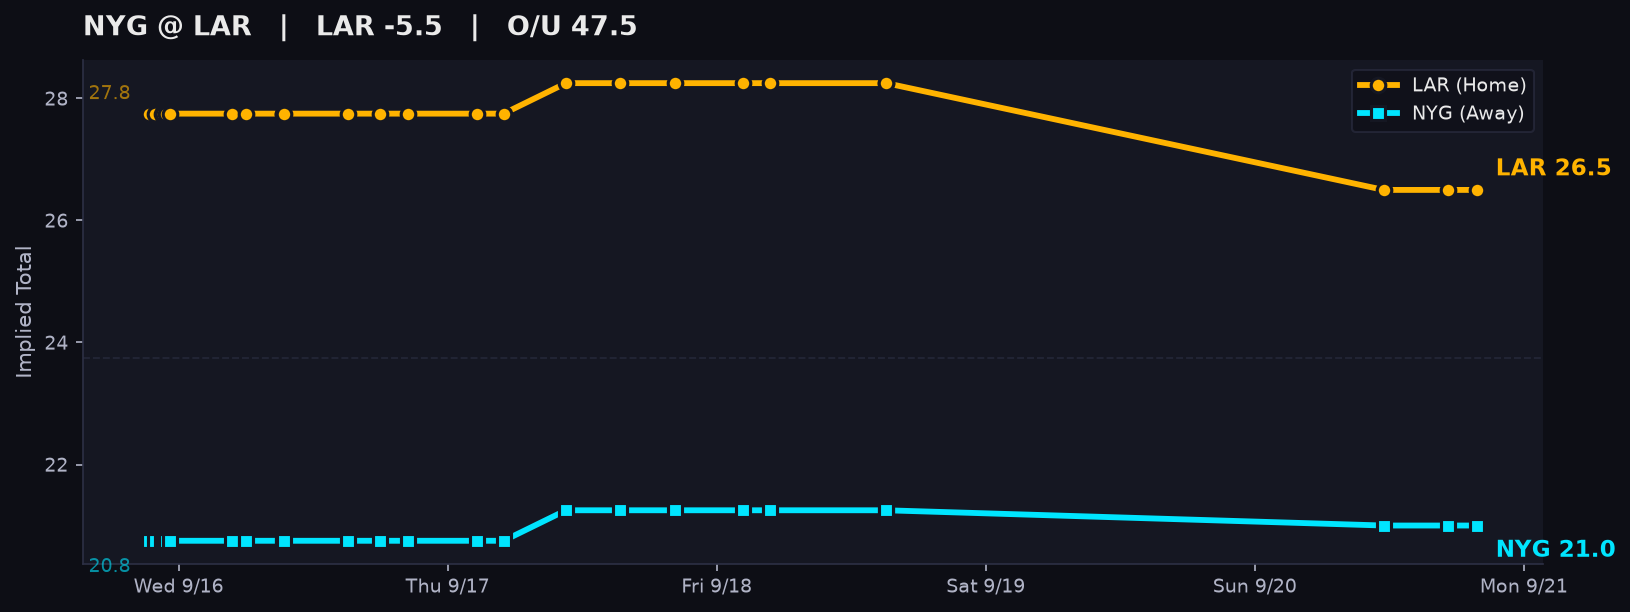
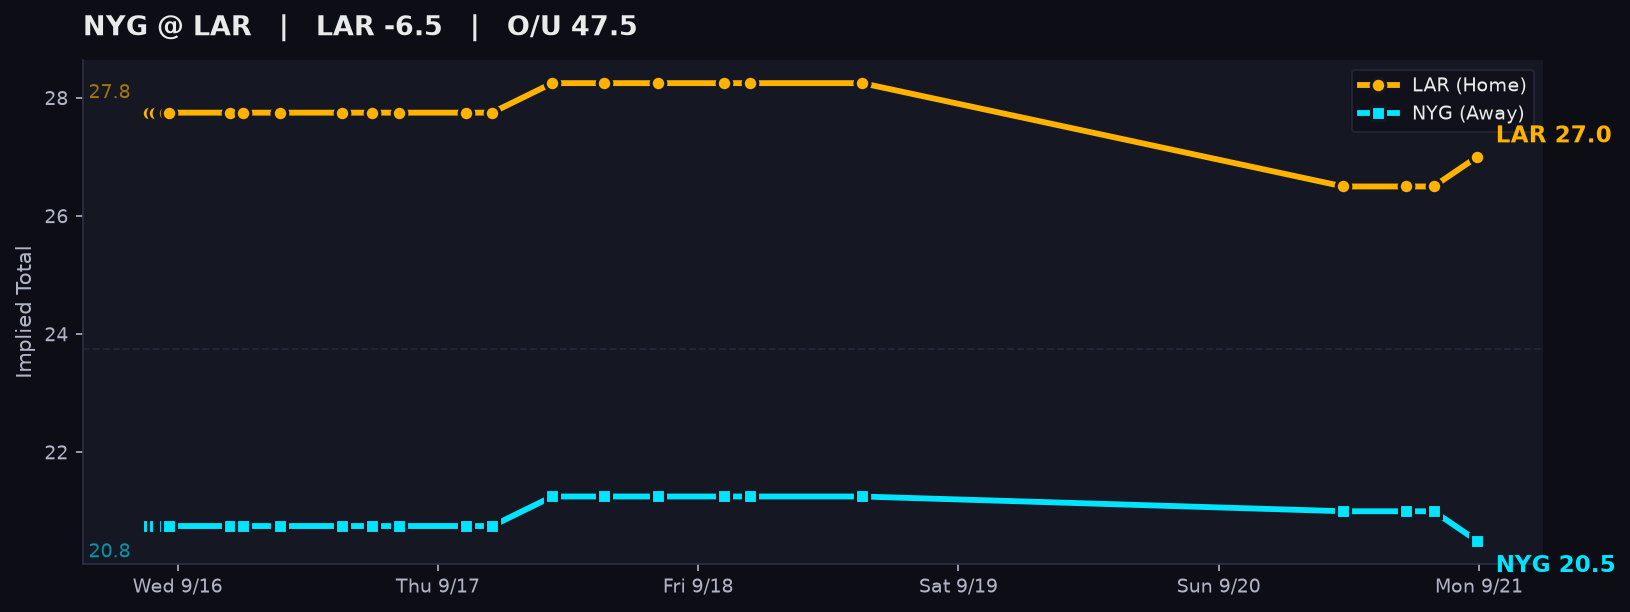
auto: NFL line snapshot & charts update [skip ci]

diff --git a/charts/index.html b/charts/index.html
@@ -153,7 +153,7 @@
 <h1>NFL Line Movement — DraftKings</h1>
 <p class='sub'>
   DraftKings pinned. Cross-checked with Pinnacle (* = 1+ pt divergence).<br>
-  Dashboard refreshed Sun Sep 20, 2026 7:51 PM CDT &middot; 616 snapshots recorded
+  Dashboard refreshed Sun Sep 20, 2026 11:49 PM CDT &middot; 617 snapshots recorded
   <span class='legend-box'>
     <span class='dot-teal'>■ Away Implied Total</span>
     <span class='dot-amber'>● Home Implied Total</span>
@@ -162,7 +162,7 @@
 
 <div class='alert-banner healthy'>
             <span class='status-dot'></span>
-            <b>Feed Healthy:</b> Last snapshot captured <b>Sun Sep 20, 7:49 PM CDT</b> (0.0 hrs ago).
+            <b>Feed Healthy:</b> Last snapshot captured <b>Sun Sep 20, 11:48 PM CDT</b> (0.0 hrs ago).
         </div>
 
 <table>
@@ -395,21 +395,21 @@
             </tr><tr class='' data-slate='MNF'>
             <td class='mu'>NYG @ <b>LAR</b></td>
             <td>LAR -7.0</td>
-            <td><b>LAR -5.5</b> <span class='div' title='Pinnacle divergence ≥ 1 pt'>*</span></td>
-            <td class='delta'>▲ 1.5</td>
+            <td><b>LAR -6.5</b></td>
+            <td class='delta'>▲ 0.5</td>
             <td>48.5</td>
             <td><b>47.5</b></td>
             <td class='delta'>▼ 1.0</td>
-            <td class='it-away'>NYG 21.0</td>
-            <td class='it-home'>LAR 26.5</td>
+            <td class='it-away'>NYG 20.5</td>
+            <td class='it-home'>LAR 27.0</td>
             <td class='reason-empty'>--</td>
-            <td class='snaps'>41</td>
+            <td class='snaps'>42</td>
         </tr>
 </tbody>
 </table>
 
 <div class='grid'>
-<div class='card thu-card'><img src='DET_BUF.png?v=1789951876' alt='DET @ BUF'></div><div class='card'><img src='NO_BAL.png?v=1789951876' alt='NO @ BAL'></div><div class='card'><img src='PIT_NE.png?v=1789951876' alt='PIT @ NE'></div><div class='card'><img src='MIN_CHI.png?v=1789951876' alt='MIN @ CHI'></div><div class='card'><img src='CLE_TB.png?v=1789951876' alt='CLE @ TB'></div><div class='card'><img src='PHI_TEN.png?v=1789951876' alt='PHI @ TEN'></div><div class='card'><img src='CIN_HOU.png?v=1789951876' alt='CIN @ HOU'></div><div class='card'><img src='GB_NYJ.png?v=1789951876' alt='GB @ NYJ'></div><div class='card'><img src='CAR_ATL.png?v=1789951876' alt='CAR @ ATL'></div><div class='card'><img src='LVR_LAC.png?v=1789951876' alt='LVR @ LAC'></div><div class='card'><img src='JAX_DEN.png?v=1789951876' alt='JAX @ DEN'></div><div class='card'><img src='WAS_DAL.png?v=1789951876' alt='WAS @ DAL'></div><div class='card'><img src='SEA_ARI.png?v=1789951876' alt='SEA @ ARI'></div><div class='card'><img src='MIA_SF.png?v=1789951876' alt='MIA @ SF'></div><div class='card'><img src='IND_KC.png?v=1789951876' alt='IND @ KC'></div><div class='card'><img src='NYG_LAR.png?v=1789951876' alt='NYG @ LAR'></div>
+<div class='card thu-card'><img src='DET_BUF.png?v=1789966179' alt='DET @ BUF'></div><div class='card'><img src='NO_BAL.png?v=1789966179' alt='NO @ BAL'></div><div class='card'><img src='PIT_NE.png?v=1789966179' alt='PIT @ NE'></div><div class='card'><img src='MIN_CHI.png?v=1789966179' alt='MIN @ CHI'></div><div class='card'><img src='CLE_TB.png?v=1789966179' alt='CLE @ TB'></div><div class='card'><img src='PHI_TEN.png?v=1789966179' alt='PHI @ TEN'></div><div class='card'><img src='CIN_HOU.png?v=1789966179' alt='CIN @ HOU'></div><div class='card'><img src='GB_NYJ.png?v=1789966179' alt='GB @ NYJ'></div><div class='card'><img src='CAR_ATL.png?v=1789966179' alt='CAR @ ATL'></div><div class='card'><img src='LVR_LAC.png?v=1789966179' alt='LVR @ LAC'></div><div class='card'><img src='JAX_DEN.png?v=1789966179' alt='JAX @ DEN'></div><div class='card'><img src='WAS_DAL.png?v=1789966179' alt='WAS @ DAL'></div><div class='card'><img src='SEA_ARI.png?v=1789966179' alt='SEA @ ARI'></div><div class='card'><img src='MIA_SF.png?v=1789966179' alt='MIA @ SF'></div><div class='card'><img src='IND_KC.png?v=1789966179' alt='IND @ KC'></div><div class='card'><img src='NYG_LAR.png?v=1789966179' alt='NYG @ LAR'></div>
 </div>
 </body>
 </html>
